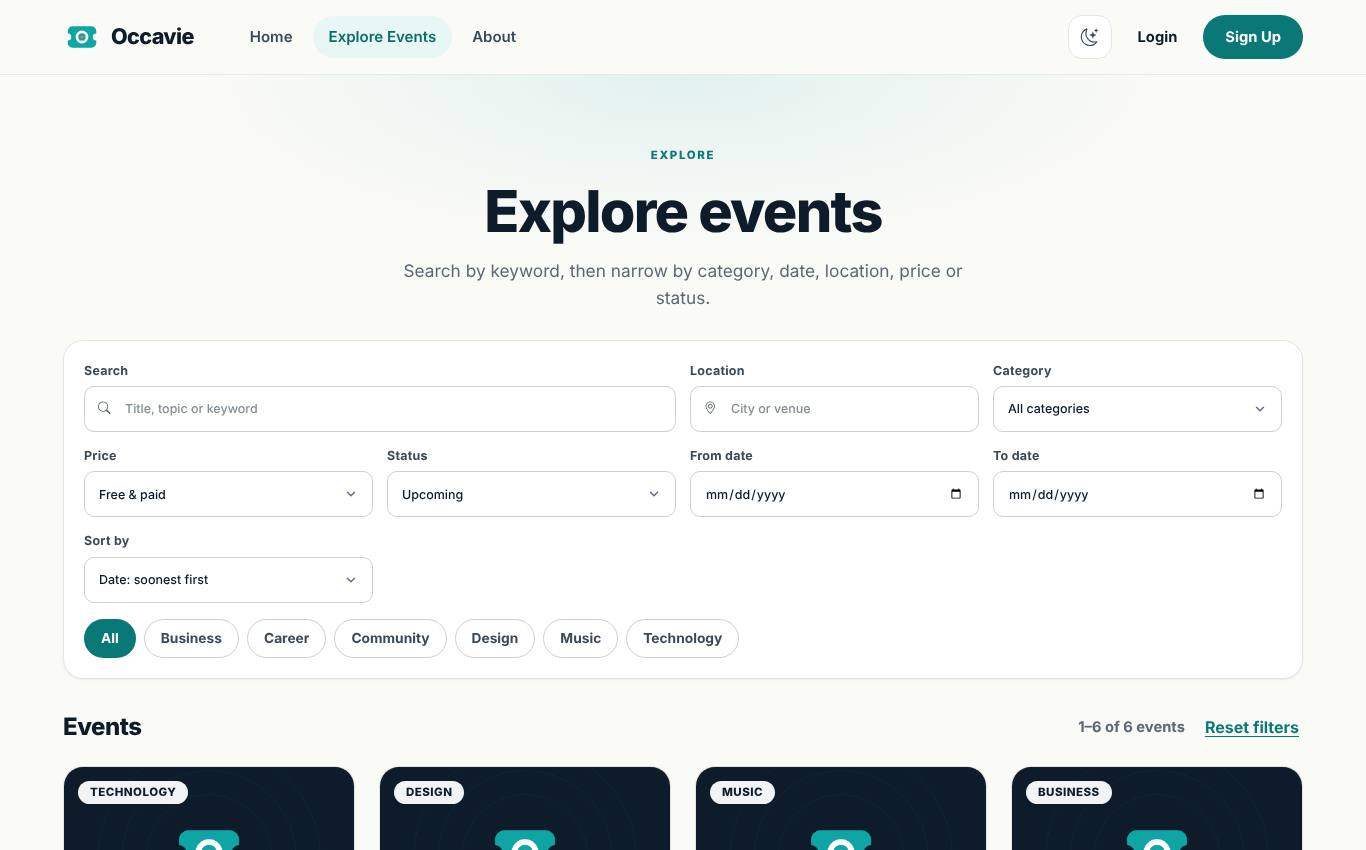
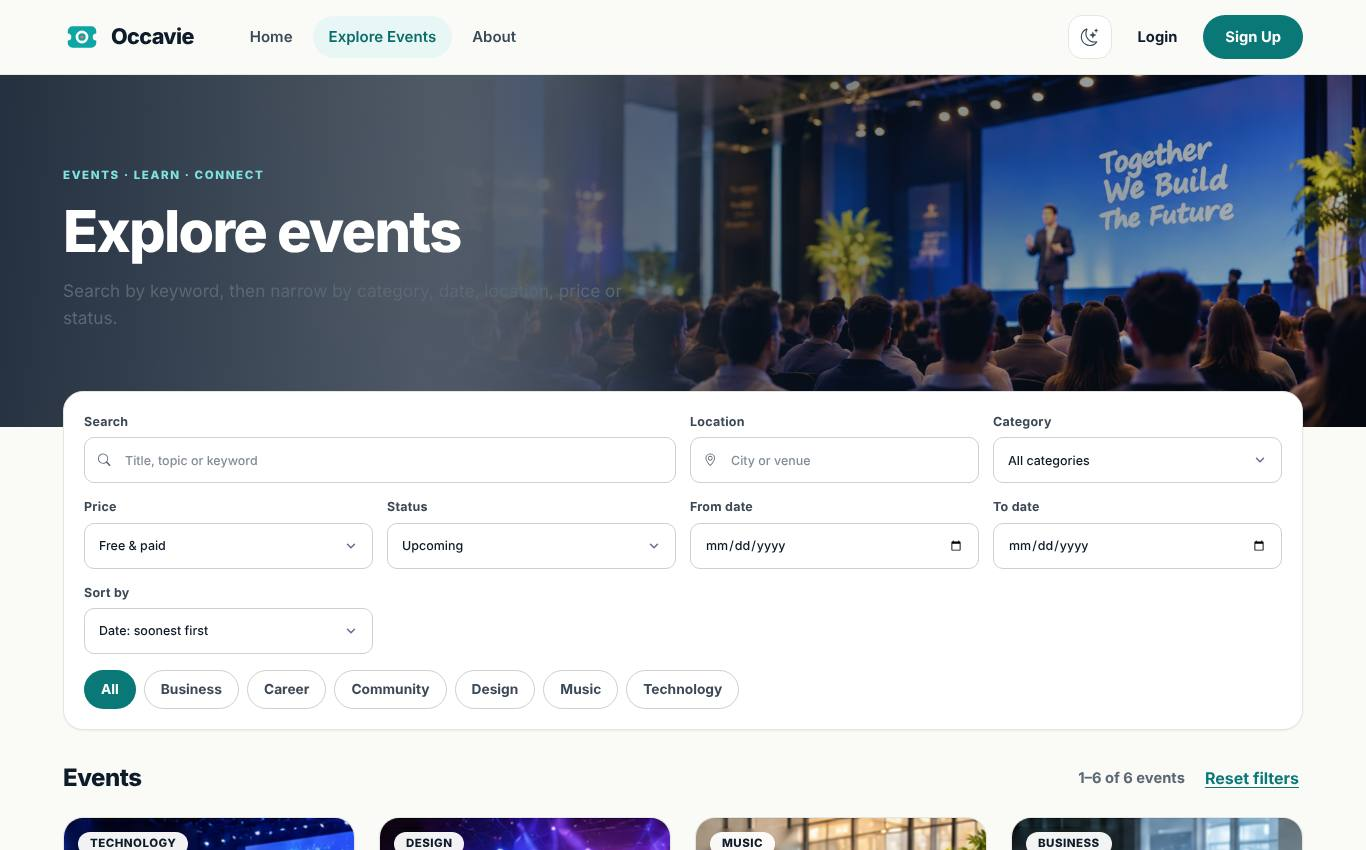
Photo hero, category tiles and image-led event cards on home and explore pages
Claude-Session: https://claude.ai/code/session_0133mjV3fwqNK9PBtkP1vyh6

diff --git a/src/main/resources/templates/home.html b/src/main/resources/templates/home.html
@@ -6,38 +6,30 @@
 <div th:replace="~{fragments :: siteNav('home')}"></div>
 
 <main id="main-content">
-    <!-- Hero -->
-    <section class="ov-hero" aria-labelledby="ovHeroTitle">
-        <div class="ov-hero-glow" aria-hidden="true"></div>
-        <div class="ov-container ov-hero-grid" th:classappend="${#lists.isEmpty(featuredEvents)} ? ' is-single' : ''">
-            <div class="ov-hero-copy">
-                <p class="ov-eyebrow">MAKE EVERY MOMENT COUNT</p>
-                <h1 id="ovHeroTitle">Find your next <em>unforgettable</em> experience.</h1>
-                <p class="ov-hero-sub">Discover conferences, workshops, concerts and meetups. Book your seat in a few clicks, or host an event of your own.</p>
-                <form class="ov-search" th:action="@{/events}" action="/events" method="get" role="search">
-                    <i class="bi bi-search" aria-hidden="true"></i>
-                    <label class="ov-sr" for="ovEventSearch">Search events by title or keyword</label>
-                    <input id="ovEventSearch" name="q" type="search" placeholder="Search events, topics or locations" autocomplete="off" maxlength="120">
-                    <button class="primary-button" type="submit">Search</button>
-                </form>
-                <div class="ov-chip-row" th:if="${!#lists.isEmpty(categories)}" aria-label="Browse by category">
-                    <a class="ov-chip" th:each="category : ${categories}" th:href="@{/events(category=${category})}" th:text="${category}" href="/events">Technology</a>
-                </div>
-            </div>
+    <!-- Hero: full-bleed photo -->
+    <section class="ov-hero ov-hero-photo-bg" aria-labelledby="ovHeroTitle">
+        <img class="ov-hero-bgimg" th:src="@{/images/home-conference-hero.webp}" src="/images/home-conference-hero.webp" alt="" width="1600" height="900" fetchpriority="high">
+        <div class="ov-container ov-hero-inner">
+            <p class="ov-eyebrow">EVENTS · LEARN · CONNECT</p>
+            <h1 id="ovHeroTitle">Find your next <em>unforgettable</em> experience.</h1>
+            <p class="ov-hero-sub">Discover conferences, workshops, concerts and meetups. Book your seat in a few clicks, or host an event of your own.</p>
+            <form class="ov-search" th:action="@{/events}" action="/events" method="get" role="search">
+                <i class="bi bi-search" aria-hidden="true"></i>
+                <label class="ov-sr" for="ovEventSearch">Search events by title or keyword</label>
+                <input id="ovEventSearch" name="q" type="search" placeholder="Search events, topics or locations" autocomplete="off" maxlength="120">
+                <button class="primary-button" type="submit">Search</button>
+            </form>
+        </div>
+    </section>
 
-            <!-- Real upcoming events only; nothing here is placeholder data. -->
-            <div class="ov-hero-next" th:if="${!#lists.isEmpty(featuredEvents)}" aria-label="Next up">
-                <p class="ov-hero-next-label">Next up</p>
-                <a class="ov-next-card" th:each="event, stat : ${featuredEvents}" th:if="${stat.index lt 3}" th:href="@{'/events/' + ${event.id}}" href="/events">
-                    <img data-event-image th:attr="data-event-category=${event.category}" th:src="${event.imageUrl != null and !#strings.isEmpty(event.imageUrl) ? event.imageUrl : '/images/event-visual.png'}" src="/images/event-visual.png" alt="" width="88" height="88" loading="lazy" decoding="async">
-                    <span class="ov-next-copy">
-                        <span class="ov-event-date"><i class="bi bi-calendar3"></i> <span th:text="${event.formattedDate}">20 May 2026</span></span>
-                        <strong th:text="${event.title}">Event title</strong>
-                        <small><i class="bi bi-geo-alt"></i> <span th:text="${event.location}">Dhaka</span></small>
-                    </span>
-                    <i class="bi bi-arrow-right" aria-hidden="true"></i>
-                </a>
-            </div>
+    <!-- Category tiles -->
+    <section class="ov-container ov-cat-section" th:if="${!#lists.isEmpty(categories)}" aria-label="Browse by category">
+        <div class="ov-cat-grid">
+            <a class="ov-cat-tile" th:href="@{/events}" href="/events"><i class="bi bi-grid-fill" aria-hidden="true"></i><span>All events</span></a>
+            <a class="ov-cat-tile" th:each="category : ${categories}" th:href="@{/events(category=${category})}" href="/events">
+                <i class="bi" aria-hidden="true" th:classappend="${category == 'Technology' ? 'bi-laptop' : category == 'Business' ? 'bi-briefcase' : category == 'Education' ? 'bi-mortarboard' : category == 'Health' ? 'bi-heart-pulse' : category == 'Music' ? 'bi-music-note-beamed' : category == 'Sports' ? 'bi-trophy' : category == 'Career' ? 'bi-person-workspace' : category == 'Community' ? 'bi-people' : category == 'Design' ? 'bi-palette' : 'bi-stars'}"></i>
+                <span th:text="${category}">Technology</span>
+            </a>
         </div>
     </section>
 

diff --git a/src/main/resources/static/css/occavie-public.css b/src/main/resources/static/css/occavie-public.css
@@ -521,3 +521,37 @@ body.contact-dashboard-body .contact-hero-copy { margin-bottom: 4px; }
 .ov-reset { padding: 56px 0 24px; display: grid; place-items: start center; }
 .ov-reset-card { width: min(480px, 100%); display: grid; gap: 16px; padding: clamp(22px, 4vw, 34px); background: var(--surface); border: 1px solid var(--line); border-radius: var(--radius-lg); box-shadow: var(--shadow); }
 .ov-reset-card h1 { font-size: 1.6rem; } .ov-auth-panel-form { display: grid; gap: 8px; } .ov-auth-panel-form > label { font-size: .85rem; font-weight: 700; color: var(--ink-2); margin-top: 6px; }
+
+/* ---- Photo hero, category tiles, richer cards ---- */
+.ov-hero-photo-bg { position: relative; isolation: isolate; color: #fff; padding: clamp(72px, 11vw, 150px) 0 clamp(80px, 11vw, 140px); background: #0E1B2A; }
+.ov-hero-photo-bg .ov-hero-bgimg { position: absolute; inset: 0; width: 100%; height: 100%; object-fit: cover; z-index: -2; }
+.ov-hero-photo-bg::before { content: ""; position: absolute; inset: 0; z-index: -1; background: linear-gradient(95deg, rgba(14,27,42,.90) 0%, rgba(14,27,42,.62) 42%, rgba(14,27,42,.08) 100%); }
+.ov-hero-photo-bg .ov-hero-inner { display: flex; flex-direction: column; gap: 22px; align-items: flex-start; }
+.ov-hero-photo-bg .ov-eyebrow { color: #7FE3E1; }
+.ov-hero-photo-bg h1 { color: #fff; max-width: 14ch; text-shadow: 0 2px 24px rgba(0,0,0,.25); }
+.ov-hero-photo-bg h1 em { color: #5FD9D6; }
+.ov-hero-photo-bg .ov-hero-sub { color: rgba(255,255,255,.88); }
+.ov-hero-photo-bg .ov-search { width: min(100%, 640px); box-shadow: 0 18px 50px rgba(0,0,0,.35); }
+.ov-cat-section { margin-top: -44px; position: relative; z-index: 2; }
+.ov-cat-grid { display: flex; gap: 14px; overflow-x: auto; padding: 6px 4px 18px; scroll-snap-type: x proximity; scrollbar-width: thin; }
+.ov-cat-tile { flex: 0 0 auto; display: inline-flex; align-items: center; gap: 12px; padding: 18px 26px; border-radius: 20px; background: var(--surface); border: 1px solid var(--line); box-shadow: var(--shadow); font-weight: 700; font-size: 1.05rem; color: var(--ink); scroll-snap-align: start; transition: transform .18s, box-shadow .18s, border-color .18s; }
+.ov-cat-tile i { font-size: 1.6rem; color: var(--brand); }
+.ov-cat-tile:hover { transform: translateY(-3px); border-color: var(--brand); box-shadow: var(--shadow-lg); }
+.ov-cat-tile:first-child { background: var(--brand-soft); border-color: transparent; }
+.ov-event-card { border-radius: 20px; overflow: hidden; }
+.ov-card-photo { aspect-ratio: 16 / 10; }
+.ov-card-photo img { transition: transform .5s; }
+.ov-event-card:hover .ov-card-photo img { transform: scale(1.05); }
+.ov-event-card-body h3 { font-family: var(--font-display); font-size: 1.25rem; }
+@media (max-width: 640px) { .ov-hero-photo-bg::before { background: rgba(14,27,42,.78); } .ov-hero-photo-bg h1 { max-width: none; } }
+
+.ov-explore-photo { isolation: isolate; text-align: left; padding: clamp(44px, 7vw, 92px) 0 clamp(52px, 7vw, 96px); background: #0E1B2A; }
+.ov-explore-photo .ov-hero-bgimg { position: absolute; inset: 0; width: 100%; height: 100%; object-fit: cover; z-index: -2; }
+.ov-explore-photo::before { background: linear-gradient(95deg, rgba(14,27,42,.90), rgba(14,27,42,.30)); z-index: -1; }
+.ov-explore-photo .ov-container { justify-items: start; }
+.ov-explore-photo h1, .ov-explore-photo p { color: #fff; }
+.ov-explore-photo .ov-eyebrow { color: #7FE3E1; }
+.ov-explore-photo h1 { font-size: clamp(2.4rem, 5vw, 3.6rem); }
+.ov-explore-content { margin-top: -36px; position: relative; z-index: 2; }
+.ov-cat-tile, .ov-cat-tile:hover { text-decoration: none; }
+.ov-explore-intro.ov-explore-photo .ov-container > p:not(.ov-eyebrow) { color: rgba(255,255,255,.88); }

diff --git a/src/main/resources/templates/events.html b/src/main/resources/templates/events.html
@@ -5,9 +5,10 @@
 <a class="skip-link" href="#main-content">Skip to content</a>
 <div th:replace="~{fragments :: siteNav('events')}"></div>
 <main id="main-content">
-  <section class="ov-explore-intro">
+  <section class="ov-explore-intro ov-explore-photo">
+    <img class="ov-hero-bgimg" th:src="@{/images/home-conference-hero.webp}" src="/images/home-conference-hero.webp" alt="" width="1600" height="900">
     <div class="ov-container">
-      <p class="ov-eyebrow">EXPLORE</p>
+      <p class="ov-eyebrow">EVENTS · LEARN · CONNECT</p>
       <h1>Explore events</h1>
       <p>Search by keyword, then narrow by category, date, location, price or status.</p>
     </div>
